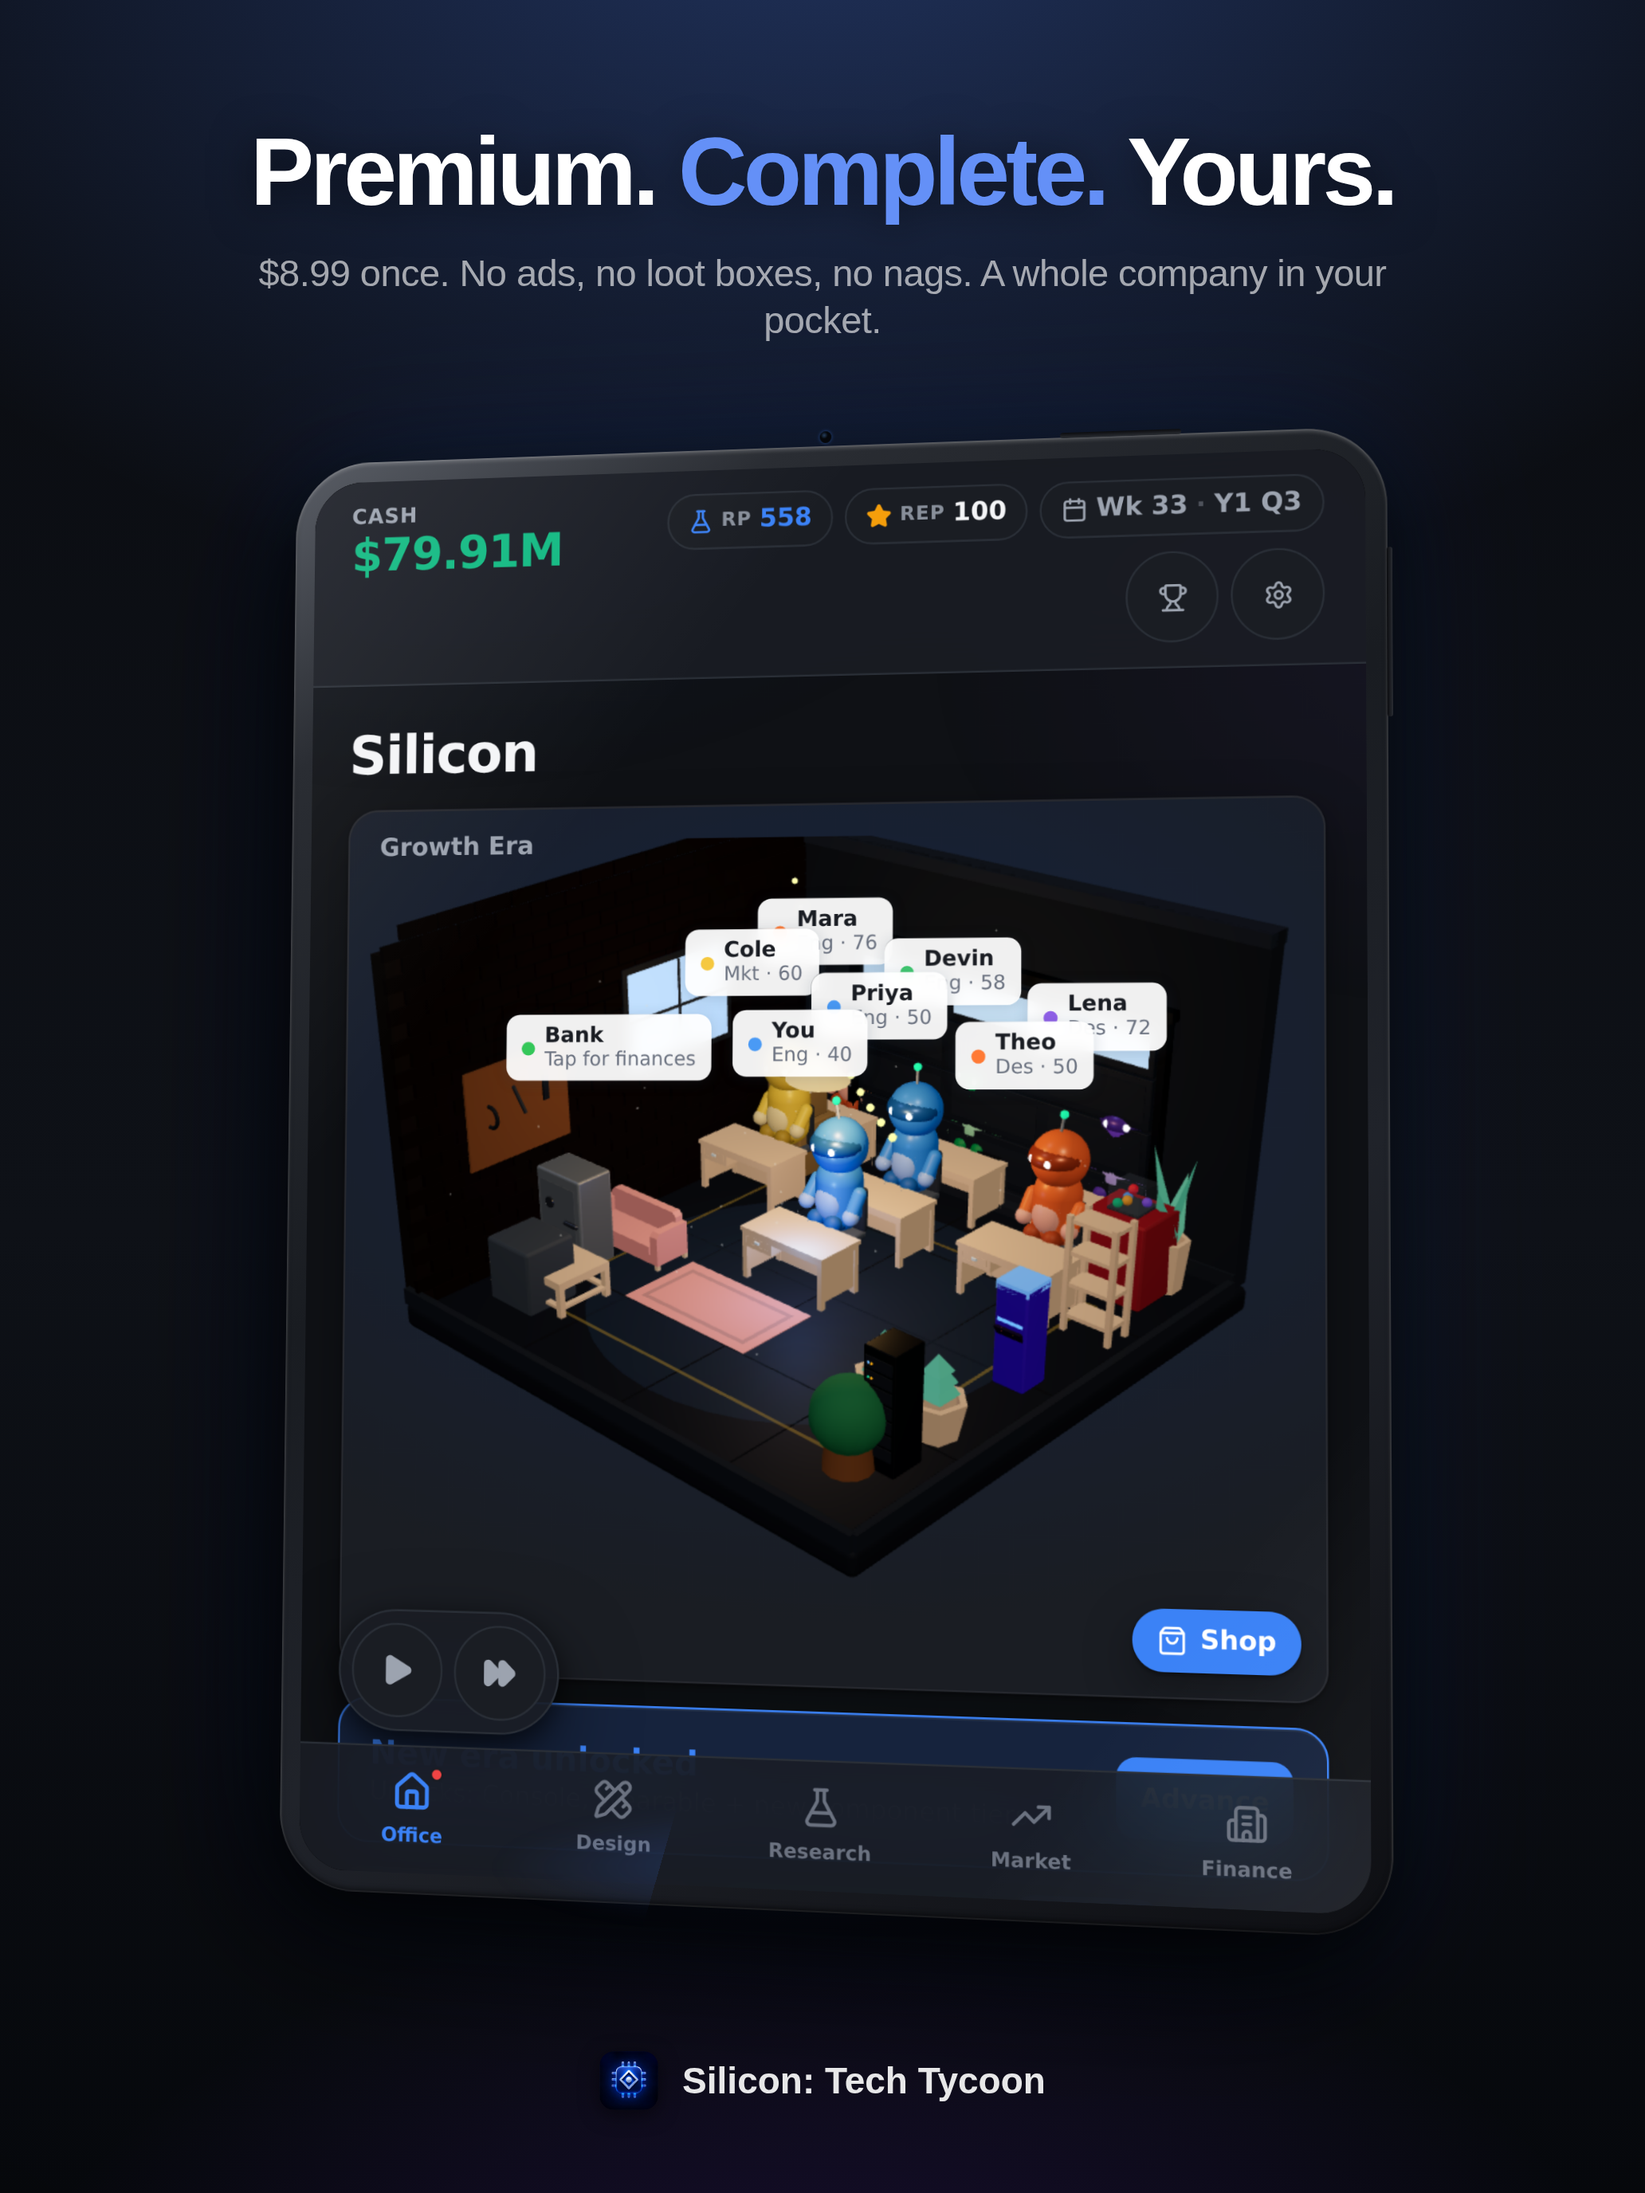
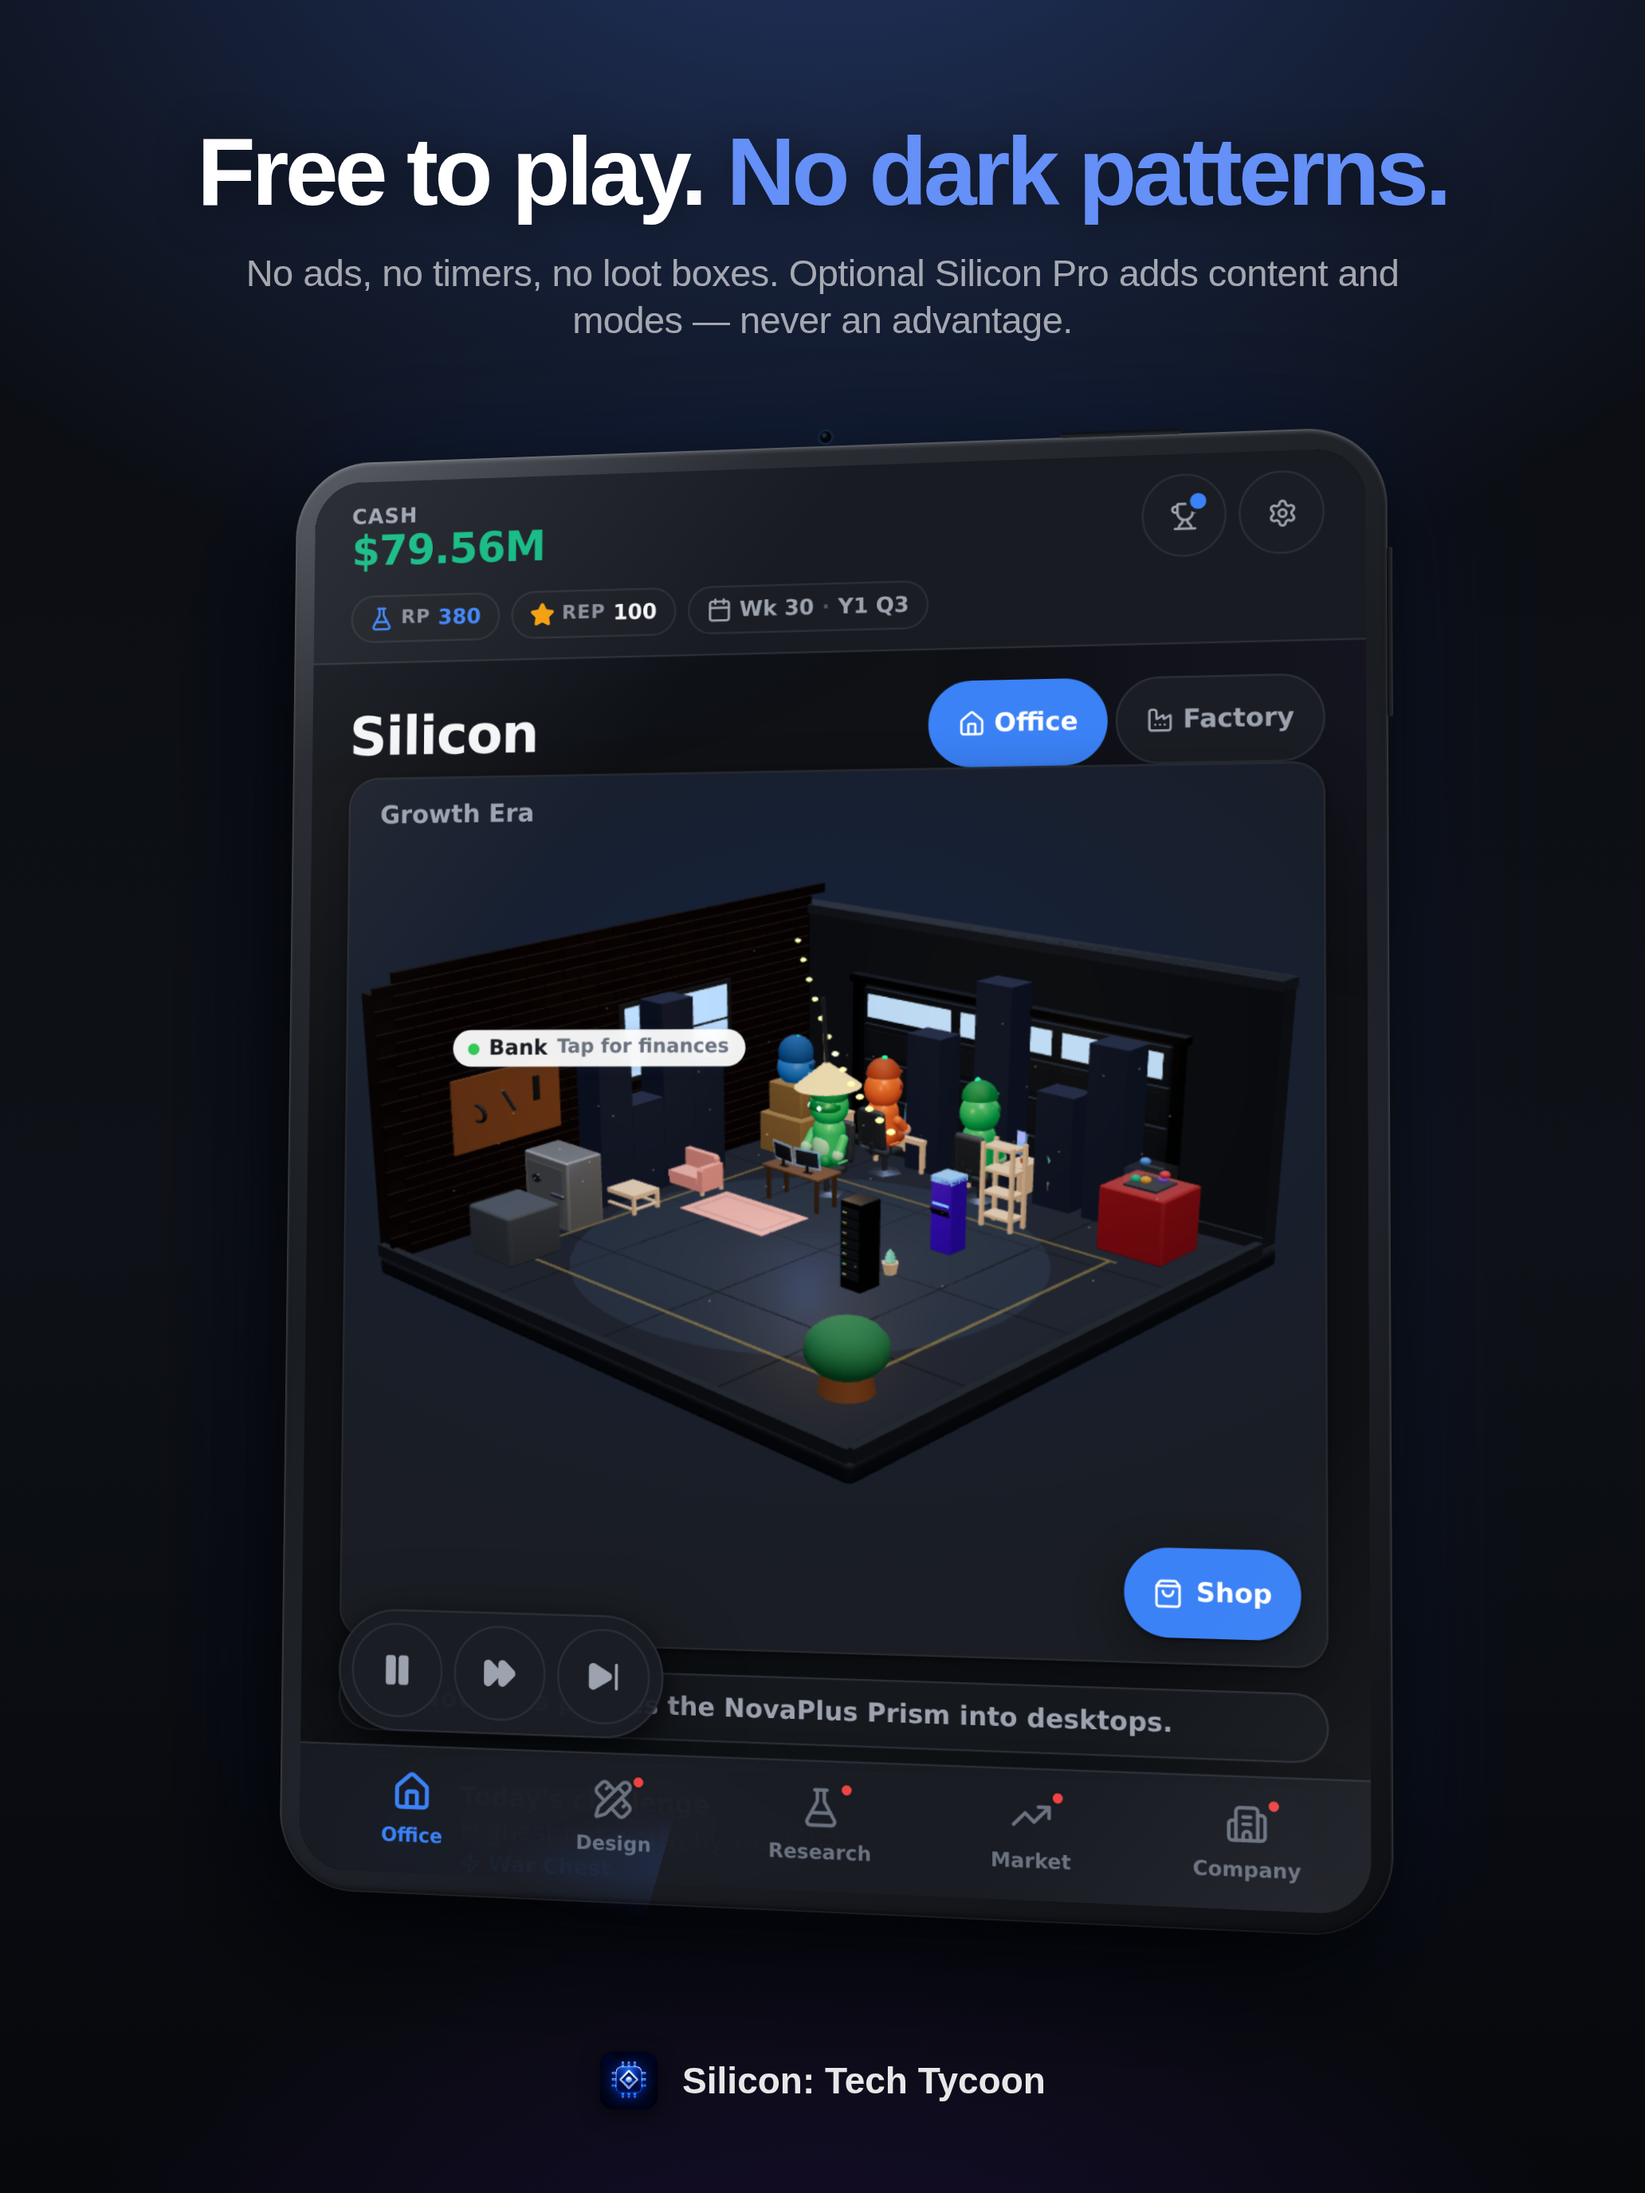
Fix the 2.3.7 rejection: stop advertising a price the app no longer charges
App Review rejected 1.3.1 under Guideline 2.3.7 (Accurate Metadata) and attached
screenshot 10, which still read "$8.99 once. No ads, no loot boxes, no nags."
The app is a free download with a Silicon Pro subscription, so that claim was
simply false — the paid era's copy outlived the paid era.

Frame 10 now reads "Free to play. No dark patterns." over a line that says Pro is
optional and adds content and modes, never an advantage. Re-rendered the shipping
6.7" asset and the iPad press-kit render, and fixed the copy in all three shooters
so a regeneration cannot reintroduce it. A screenshot must never name a price at
all: the render cannot know the localized amount StoreKit will charge, and it
becomes a false claim the moment the model moves.

Regenerating the iPad frame surfaced a second bug in that shooter: it predates the
Vault, and the staged save arrives holding pendingSecretReveal, so the dossier
ceremony took the screen mid-transition. It is an EARNED ceremony that the
interrupt budget does not gate, so it needed shots-refresh's calm() helper —
added to shots-ipad.mjs and shots-store.mjs, which had the same latent problem.

Also fixed the same inaccuracy in the other 38 storefronts, which the subscription
guide had already flagged: every localized description still ended with a
translated "the base game is complete with a single purchase / the only in-app
purchase, ever". All 38 now carry the en-US pair of sections — a free-to-play
[…]

diff --git a/appstore/SUBSCRIPTION_GUIDE.md b/appstore/SUBSCRIPTION_GUIDE.md
@@ -124,21 +124,26 @@ free app with subscriptions is a **Guideline 2.3.1 (accurate metadata)** rejecti
   Silicon Pro honestly.
 - `appstore/localizations/en-US/release_notes.txt` — new v1.3.0 notes.
 
-**⚠ Still to do: the other 38 locales.** Every `appstore/localizations/*/description.txt` still ends
-with a translated version of the old "single purchase / only in-app purchase, ever" claim, and every
-`release_notes.txt` still carries the v1.2.0 body. Translate the two English files into each locale
-(same tone, same structure), then:
+**✅ Done: all 38 other locales.** Every `appstore/localizations/*/description.txt` used to end with a
+translated "single purchase / only in-app purchase, ever" claim. All 38 now end with the same two
+sections as en-US — a free-to-play section (each locale's own "no ads / no timers / no currencies"
+list, then the Garage + Growth eras free with a daily challenge, offline) and a **SILICON PRO**
+section (the Pro eras/modes, monthly or yearly with a trial, Pro Lifetime as the one-time option,
+and "nothing you can buy changes the simulation in your favour"). No description names a price.
 
 ```bash
-node appstore/localizations/validate.mjs --all   # must print ✓ for all 39
+node appstore/localizations/validate.mjs --all   # ✓ for all 39
 ```
 
-If you would rather not translate 38 descriptions right now, the minimum safe move is to **ship
-en-US only for this release** and re-enable the other storefronts once their copy is updated — an
-inaccurate localized description is a rejection in that storefront, not just a typo.
+**⚠ Still to do: `release_notes.txt` in the other 38 locales** still carries the v1.2.0 body. It makes
+no purchase claim, so it is stale rather than inaccurate — but "What's New" not mentioning that the
+app went free is a wasted slot in 38 storefronts. Translate `en-US/release_notes.txt` when you can.
 
-Also worth a pass: screenshot 10 is captioned *"Premium. Complete. Yours."* (`10-premium.png`), which
-now reads oddly next to a Free price. Recaption or replace it.
+**✅ Done: screenshot 10.** It advertised *"$8.99 once"*, which is what got 1.3.1 rejected under
+**Guideline 2.3.7 (Accurate Metadata)** — the app is a free download with a subscription. It now
+reads *"Free to play. No dark patterns."* over a line about Pro being optional. **Never put a price in
+a screenshot**: the render cannot know the localized amount StoreKit charges, and it becomes a false
+claim the moment the model moves. See `appstore/APP_STORE_METADATA.md` §11.
 
 ---
 

diff --git a/app-store-screenshots/README.md b/app-store-screenshots/README.md
@@ -21,7 +21,7 @@ the required 6.7" slot; App Store Connect scales it for smaller iPhones.
 | 07 | Rival Strike duel                      | **Answer every rival** |
 | 08 | Research — live ring + queue           | **Research on your terms** |
 | 09 | Regional licensing + standings         | **Take it global** |
-| 10 | Real-time 3D HQ                        | **Premium. Complete. Yours.** |
+| 10 | Real-time 3D HQ                        | **Free to play. No dark patterns.** |
 
 Lead with 01–03: the Vault board is the one frame that reads as a promise rather than a status
 readout, and search thumbnails only ever show the first three. See `store/README.md` for what each
@@ -44,7 +44,7 @@ screen is captured at its designed max width (a clean 3:4 capture) and shown ful
 | 07 | Financing / debt                  | **Master your finances** |
 | 08 | Talent poaching event             | **Keep your best people** |
 | 09 | Team morale & roster              | **Grow a real team** |
-| 10 | Real-time 3D HQ                   | **Premium. Complete. Yours.** |
+| 10 | Real-time 3D HQ                   | **Free to play. No dark patterns.** |
 
 **These are marketing renders, not submission assets.** `ios/App/App.xcodeproj/project.pbxproj`
 sets `TARGETED_DEVICE_FAMILY = "1"` — the app ships iPhone-only, so App Store Connect never asks for

diff --git a/.claude/skills/paywall-compliance/SKILL.md b/.claude/skills/paywall-compliance/SKILL.md
@@ -152,3 +152,10 @@ Run this whenever the paywall changed. Each line is a real rejection someone has
 | 2.1 "purchase did not complete" | A product attached to the build that isn't live/tested in sandbox, or a cancel treated as an error |
 | 3.1.1 | Something purchasable altered the simulation — find it and move the gate to the action |
 | 2.1 minimum functionality | The paywall isn't skippable, or free has nothing to do |
+| 2.3.7 "accurate metadata" | A price or business-model claim baked into a **marketing asset** instead of read from the store. 1.3.1 was rejected because screenshot 10 still advertised the paid era's "$8.99 once" after the app went free-to-download with a subscription. Fix the asset, not the app: `scripts/shots-refresh.mjs` frame 10, then re-render (`app-store-screenshots/README.md`) |
+
+"Prices from StoreKit, always" governs marketing as well as UI. **No screenshot, promo text or
+release note may name a price** — the render cannot know the localized amount StoreKit will charge,
+and the moment the model changes the asset becomes a false claim that ships. Describe the model
+(free download, optional Pro, nothing purchasable changes the sim); let the store page and the
+paywall be the only places a number appears.

diff --git a/app-store-screenshots/store/README.md b/app-store-screenshots/store/README.md
@@ -19,7 +19,12 @@ most people ever see in search.
 | 7 | `07-strike.png` | Answer every **rival** | A rival strike duel — cut price, counter-campaign, or hold the line |
 | 8 | `08-research.png` | Research on your **terms** | Timed research on the live progress ring + the "Up next" queue |
 | 9 | `09-global.png` | Take it **global** | Regional licensing — each region's taste + your live standing |
-| 10 | `10-premium.png` | Premium. **Complete.** Yours. | One-time price, no ads / no loot boxes, offline — over the lavish 3D office |
+| 10 | `10-premium.png` | Free to play. **No dark patterns.** | Free download, no ads / timers / loot boxes, Pro optional — over the lavish 3D office |
+
+**Frame 10 must never name a price.** It used to read "$8.99 once", which outlived the paid era and
+was rejected under **Guideline 2.3.7 (Accurate Metadata)** — the app is a free download with a
+Silicon Pro subscription. A screenshot also cannot know the localized price StoreKit will charge, so
+describe the model (see `MONETIZATION.md`) and let the store show the number.
 
 ## Regenerating
 

diff --git a/appstore/APP_STORE_METADATA.md b/appstore/APP_STORE_METADATA.md
@@ -351,7 +351,13 @@ newest and most visually distinctive:
 7. `07-strike.png` — Rival Strike duel — **"Answer every rival"**
 8. `08-research.png` — Research ring + queue — **"Research on your terms"**
 9. `09-global.png` — Regional licensing + standings — **"Take it global"**
-10. `10-premium.png` — **"Premium. Complete. Yours."**
+10. `10-premium.png` — **"Free to play. No dark patterns."**
+
+**No prices in screenshots — ever.** Frame 10 shipped the paid era's "$8.99 once" after the app went
+free-to-download with a subscription, and 1.3.1 was rejected under **Guideline 2.3.7 (Accurate
+Metadata)** for it. Screenshots also cannot know the localized price StoreKit charges. Describe the
+model (free download, optional Silicon Pro, nothing purchasable changes the sim — `MONETIZATION.md`)
+and let the store and the in-app paywall be the only places a number appears.
 
 Lead with the Vault: it is the only frame that reads as a *promise* rather than a status readout,
 and it is the 1.2.0 headline feature. `APP_STORE_FEATURING.md` assumes this exact order.
